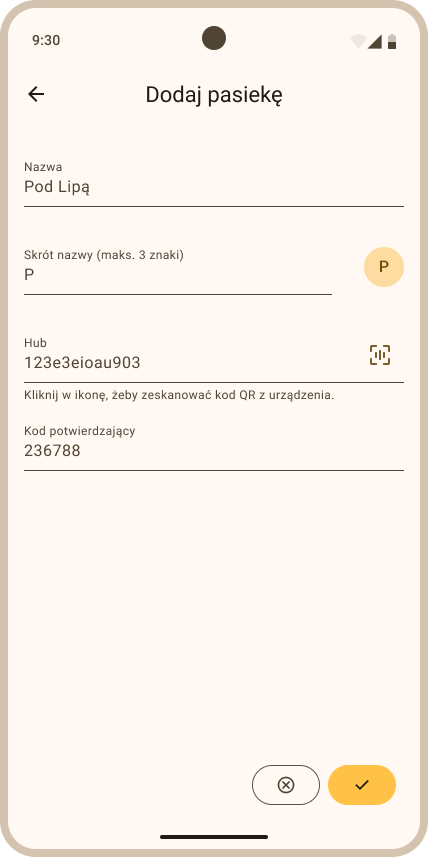
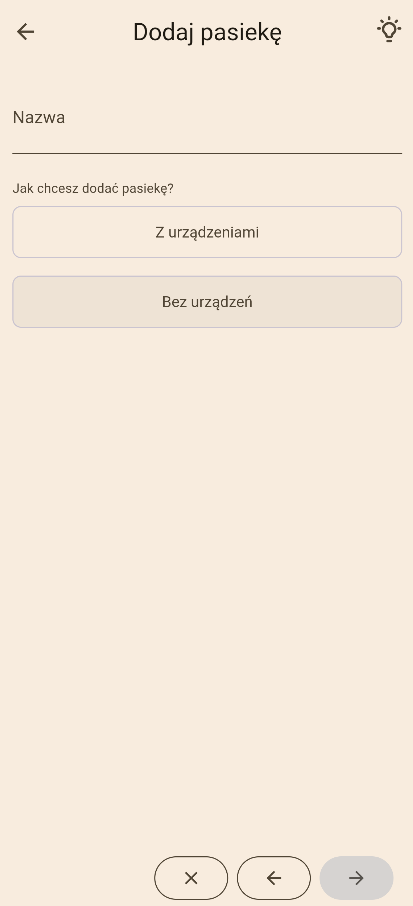
update pictures in pl version

diff --git a/docs/manual/app-manual.pl.md b/docs/manual/app-manual.pl.md
@@ -116,13 +116,13 @@ Figure: Dodawanie pasieki - widok startowy Pasieki {#fig-apiaries}
 
 - W rezultacie zostanie wyświetlony widok *Dodaj pasiekę* ([](#fig-add-apiary)). 
 
-Figure: Dodawanie pasieki z powiązanym Apisense Hub w systemie {#fig-add-apiary}
+Figure: Widok Dodaj pasiekę {#fig-add-apiary}
 
 ![figure](pictures/add_apiary.png){width=200}
 
 #### 1.1.1 Dodawanie pasieki z urządzeniami
 
-W widoku *Dodaj pasiekę* wypełnij następujące pola:
+W widoku *Dodaj pasiekę* ([](#fig-add-apiary)) wypełnij następujące pola:
 
 - **Nazwa** — nazwa pasieki, która będzie wyświetlana w panelu,
 - **Z urządzeniami** - zaznacz tę opcję, aby dodać pasiekę i powiązać z nią urządzenie Apisense Hub.
@@ -146,7 +146,7 @@ Figure: Pomyślnie dodana pasieka z powiązanym Apisense Hub w widoku pasiek w s
 
 #### 1.1.2 Dodawanie pasieki bez urządzeń
 
-Aby dodać pasiekę bez urządzeń, w widoku *Dodaj pasiekę*:
+Aby dodać pasiekę bez urządzeń, w widoku *Dodaj pasiekę* ([](#fig-add-apiary)):
 
 - w polu *Nazwa* wpisz nazwę pod jaką ma zostać wyświetlana pasieka w aplikacji,
 - zaznacz opcję *Bez urządzeń*.
@@ -284,23 +284,23 @@ Figure: Dodawanie ula w systemie - sekcja Informacje o matce pszczelej {#fig-add
     !!! Uwaga:
         **Wymóg Huba:** Aby powiązać Scale lub VitalSensor z ulem, do pasieki musi być przypisany **Apisense Hub**. W przeciwnym razie zarówno podczas dodawania jak i edycji ula, sekcja *Wyposażenie* nie będzie dostępna.
 
-    Aby powiązać urządzenie Apisense Scale z ulem wypełnij następujące pola:
+    Aby powiązać urządzenie Apisense Scale z ulem wypełnij następujące pola ([](#fig-add-beehive-devices-scale)):
 
     - **Scale** - kliknij w ikonę kodu QR znajdującą się w prawej części tego pola i zeskanuj kod QR z naklejki umieszczonej na Apisense Scale. Kolejne pole *Kod potwierdzający* zostanie wypełnione automatycznie.
     - **Kod potwierdzający** - zostanie wypełniony automatycznie, po poprawnym zeskanowaniu kodu QR.
 
     Figure: Dodawanie ula w systemie - sekcja Wyposażenie - przypisywanie urządzenia Scale {#fig-add-beehive-devices}
 
-    ![figure](pictures/add_beehive_devices.png){width=200}
+    ![figure](pictures/add_beehive_devices_scale.png){width=200}
 
-    Następnie kliknij żółty przycisk, widoczny w lewym dolnym rogu ekranu, aby przejść do etapu przypisywania urządzenia Apisense VitalSensor do ula:
+    Następnie kliknij żółty przycisk, widoczny w lewym dolnym rogu ekranu, aby przejść do etapu przypisywania urządzenia Apisense VitalSensor do ula ([](#fig-add-beehive-devices-sensor)):
 
     - **VitalSensor** - kliknij w ikonę kodu QR znajdującą się w prawej części tego pola i zeskanuj kod QR z naklejki umieszczonej na urządzeniu Apisense VitalSensor **lub** z Apisense Tag. Kolejne pole *Kod potwierdzający* zostanie wypełnione automatycznie.
     - **Kod potwierdzający** - zostanie wypełniony automatycznie, po poprawnym zeskanowaniu kodu QR.
 
     Figure: Dodawanie ula w systemie - sekcja Wyposażenie - przypisywanie urządzenia VitalSensor {#fig-add-beehive-devices}
 
-    ![figure](pictures/add_beehive_devices.png){width=200}
+    ![figure](pictures/add_beehive_devices_sensor.png){width=200}
 
 !!! Uwaga:
     Do ula możesz również przypisać tylko jedno urządzenie. Aby utworzyć ul tylko z VitalSensor pozostaw pole Scale i Kod potwierdzający puste, a następnie przejdź do etapu dodawania urządzenia VitalSensor i zeskanuj odpowiedni kod QR, po czym zapisz. Aby utworzyć ul tylko ze Scale pozostaw pole VitalSensor i Kod potwierdzający puste i kliknij żółty przycisk na dole ekranu w celu zapisania.
@@ -333,7 +333,7 @@ Jeśli chcesz utworzyć ul tylko do ewidencji (bez monitoringu):
 
 Figure: Pomyślnie dodany ul bez urządzeń w widoku Ule {#fig-beehives-beehive-without-devices}
 
-![figure](pictures/beehive_interior.png){width=200}
+![figure](pictures/beehives_beehive_without_devices.png){width=200}
 
 #### 2.2 Edycja ula
 
@@ -1305,7 +1305,7 @@ W niniejszym rozdziale przedstawiono znaczenie poszczególnych ikon, symboli ora
 
 Po utworzeniu pasieki z Hubem oraz przypisaniu Scale/VitalSensor do ula, zanim urządzenia nawiążą łączność z systemem na kafelkach będą prezentowane następujące informacje: 
 
-- **Hub — kafelek pasieki** - na kafelku pasieki zobaczysz komunikat z instrukcją uruchomienia urządzenia oraz trzeba przyciskami - wybierz tę, która odpowiada Twojej sytuacji:
+- **Hub — kafelek pasieki** - na kafelku pasieki zobaczysz komunikat z instrukcją uruchomienia urządzenia oraz trzeba przyciskami ([](#fig-apiary-instruction)) - wybierz tę, która odpowiada Twojej sytuacji:
 
 | Opcja | Maksymalny czas oczekiwania | Kiedy wybrać |
 | :---- | :---------------------- | :------------ |
@@ -1313,13 +1313,25 @@ Po utworzeniu pasieki z Hubem oraz przypisaniu Scale/VitalSensor do ula, zanim u
 | **Pełne słońce** | ok. 3 h | Hub wystawiony na słońce przy sprzyjającym nasłonecznieniu |
 | **Słabe słońce** | ok. 24 h | Rozładowany Hub przy słabym nasłonecznieniu |
 
-Po wybraniu opcji uruchamia się **odliczanie** (zegar) z szacowanym maksymalnym czasem, jaki należy odczekać do pierwszego połączenia. To **szacunek**, nie gwarancja - rozładowany Hub bez dostępu do światła może potrzebować więcej czasu. Jeśli po upływie czasu Hub nadal się nie zgłasza, aplikacja zaproponuje ponowienie próby. 
+Figure: Kafelek z pasieką - pierwsze uruchomienie urządzenia Apisense Hub - instrukcja uruchomienia {#fig-apiary-instruction}
 
-*(zrzut — `status_pierwsze_uruchomienie_hub.png`)*
+![figure](pictures/apiary_hub_first_contact.png){width=200}
 
-- **Scale i VitalSensor — kafelek ula** - na kafelku ula pojawia się pytanie czy urządzenie jest prawidłowo zamontowane oraz czy znajduje się w zasięgu Huba (do ok. 35 m). Po potwierdzeniu uruchamia się **zegar** z szacowanym maksymalnym czasem nawiązania komunikacji urządzenia pomiarowego z Hubem. 
+Po wybraniu opcji uruchamia się **odliczanie** (zegar) z szacowanym maksymalnym czasem, jaki należy odczekać do pierwszego połączenia ([](#fig-apiary-timer)). To **szacunek**, nie gwarancja - rozładowany Hub bez dostępu do światła może potrzebować więcej czasu. Jeśli po upływie czasu Hub nadal się nie zgłasza, aplikacja zaproponuje ponowienie próby. 
 
-*(zrzut — `status_pierwsze_uruchomienie_ul.png`)*
+Figure: Kafelek z pasieką - pierwsze uruchomienie urządzenia Apisense Hub - zegar {#fig-apiary-timer}
+
+![figure](pictures/apiary_timer.png){width=200}
+
+- **Scale i VitalSensor — kafelek ula** - na kafelku ula pojawia się pytanie ([](#fig-beehive-device-first-contact)) czy urządzenie jest prawidłowo zamontowane oraz czy znajduje się w zasięgu Huba (do ok. 35 m). Po potwierdzeniu uruchamia się **zegar** z szacowanym maksymalnym czasem nawiązania komunikacji urządzenia pomiarowego z Hubem ([](#fig-beehive-timer)). 
+
+Figure: Kafelek z ulem - pierwsze uruchomienie urządzenia Apisense Scale/VitalSensor - pytanie {#fig-beehive-device-first-contact}
+
+![figure](pictures/beehive_device_first_contact.png){width=200}
+
+Figure: Kafelek z ulem - pierwsze uruchomienie urządzenia Apisense Scale/VitalSensor - zegar {#fig-beehive-timer}
+
+![figure](pictures/beehive_timer.png){width=200}
 
 **Dodatkowe komunikaty na kafelku pasieki**
 
@@ -1341,11 +1353,11 @@ Ikony stanu zdrowia informują o kondycji rodziny pszczelej w poszczególnych ul
 | :----------- | :---------------- | :--------- |
 | ![](pictures/state_healthy_family.png) | kafelek z pasieką (zakładka Pasieki) | **Rodzina zdrowa** | Co najmniej jeden ul ma wiarygodne dane z urządzenia VitalSensor (poza okresem *Zbieramy dane*). Rodzina pszczela w tej pasiece jest zdrowa. W żadnym ulu w tej pasiece nie wykryto zagrożenia.| 
 | ![](pictures/state_danger.png) | kafelek z pasieką (zakładka Pasieki) | **Zagrożenie** - rodzina pszczela w tej pasiece jest zagrożona. W co najmniej jednym ulu w tej pasiece będącym poza okresem *Zbieramy dane* wykryto zagrożenie w postaci choroby. |
-| *(zrzut — `status_zbieramy_dane_pasieka.png`)* | kafelek z pasieką (zakładka Pasieki), kafelek z ulem (zakładka Ule) | **Zbieramy dane na kafelku z pasieką** -  oznacza, że wszystkie urządzenia typu VitalSensor w pasiece są w okresie zbierania  danych o zdrowiu rodziny (pierwsze ok. 3 dni od przypisania), trwa pierwsza analiza AI - system zbiera dane, ale model nie ma jeszcze wystarczającej historii, aby wiarygodnie ocenić stan zdrowia rodziny. **Zbieramy dane na kafelku z ulem** - występuje na ulu, do którego przypisany jest VitalSensor znajdujący się w okresie zbierania danych o zdrowiu rodziny (analogicznie jak w przypadku pasieki)|
-| *(zrzut — `status_baner_zbieramy_dane.png`)* | kafelek pasieki (zakładka Pasieki) | *Zbieramy dane o zdrowiu X z Y uli…* - oznacza, że w co najmniej jednym ulu w pasiece istnieje VitalSensor, który wciąż jest w okresie zbierania danych o zdrowiu rodziny. Przykład: w pasiece jest 5 uli, w 4 z nich od dłuższego czasu jest VitalSensor i każdy z nich wskazuje, że rodzina jest zdrowa. Do 1 ula VitalSensor został przypisany dzisiaj. Na kafelku z pasieką zobaczysz mniejszy kafelek *Rodzina zdrowa* i informację *Zbieramy dane o zdrowiu 1 z 5 uli.* |
+| ![](pictures/apiary_statuses_collect_data_chip.png)  | kafelek z pasieką (zakładka Pasieki), kafelek z ulem (zakładka Ule) | **Zbieramy dane na kafelku z pasieką** -  oznacza, że wszystkie urządzenia typu VitalSensor w pasiece są w okresie zbierania  danych o zdrowiu rodziny (pierwsze ok. 3 dni od przypisania), trwa pierwsza analiza AI - system zbiera dane, ale model nie ma jeszcze wystarczającej historii, aby wiarygodnie ocenić stan zdrowia rodziny. **Zbieramy dane na kafelku z ulem** - występuje na ulu, do którego przypisany jest VitalSensor znajdujący się w okresie zbierania danych o zdrowiu rodziny (analogicznie jak w przypadku pasieki)|
+| ![](pictures/apiary_statuses_collect_data.png) | kafelek pasieki (zakładka Pasieki) | *Zbieramy dane o zdrowiu X z Y uli…* - oznacza, że w co najmniej jednym ulu w pasiece istnieje VitalSensor, który wciąż jest w okresie zbierania danych o zdrowiu rodziny. Przykład: w pasiece jest 5 uli, w 4 z nich od dłuższego czasu jest VitalSensor i każdy z nich wskazuje, że rodzina jest zdrowa. Do 1 ula VitalSensor został przypisany dzisiaj. Na kafelku z pasieką zobaczysz mniejszy kafelek *Rodzina zdrowa* i informację *Zbieramy dane o zdrowiu 1 z 5 uli.* |
 | Brak kafelka o stanie zdrowia | kafelek pasieki (zakładka Pasieki), kafelek ula (zakładka Ule) | *(brak statusu zdrowia)* | Pasieka bez Huba lub pasieka z Hubem, ale w żadnym ulu w tej pasiece nie ma urządzeń typu VitalSensor. System nie ma podstaw do oceny zdrowia rodziny. |
-| *(zrzut — `status_baner_zbieramy_dane.png`)* | kafelek ula - wiersz *Stan rodziny*, zakładka *Stan ula* w *Szczegóły* | **Zdrowa** - VitalSensor poza okresem zbierania danych; model nie wykrył choroby. Rodzina w tym ulu uznana za zdrową. |
-| *(zrzut — `status_choroba_wysoka.png`)* | kafelek ula (zakładka Ule)| Nazwa choroby na żółtym tle - wykryto chorobę w ulu o niskim/umiarkowanym poziomie porażenia. Nazwa choroby na czerwonym tle - wykryto chorobę w ulu o wysokim poziomie porażenia. *+N obok nazwy choroby* - oznacza, że w ulu wykryto więcej niż jedną chorobę. |
+| ![](pictures/beehive_statuses_health_family.png) | kafelek ula - wiersz *Stan rodziny*, zakładka *Stan ula* w *Szczegóły* | **Zdrowa** - VitalSensor poza okresem zbierania danych; model nie wykrył choroby. Rodzina w tym ulu uznana za zdrową. |
+| ![](pictures/statuses_disease_low.png) | kafelek ula (zakładka Ule)| Nazwa choroby na żółtym tle - wykryto chorobę w ulu o niskim/umiarkowanym poziomie porażenia. Nazwa choroby na czerwonym tle - wykryto chorobę w ulu o wysokim poziomie porażenia. *+N obok nazwy choroby* - oznacza, że w ulu wykryto więcej niż jedną chorobę. |
 | ![](pictures/state_no_data.png) | kafelek pasieki (zakładka Pasieki), kafelek ula (zakładka Ule) | **Brak danych** - oznacza, że system nie może ocenić stanu zdrowia rodziny pszczelej (na kafelku z ulem dotyczy danych z konkretnego VitalSensor, na kafelku z pasieką odnosi się do wszystkich urządzeń typu VitalSensor w tej pasiece). Przykładowo może wystąpić gdy VitalSensor był w okresie zbierania danych, ale nagle przestał komunikować się z Hub i dane nie zdążyły zostać zebrane oraz przeanalizowane przez model AI. |
 | ![](pictures/varroa_low.png) | m.in. *Szczegóły*, *Mapa* | Ikona choroby — Warroza.  Wykryto chorobę (Warroza) o niskim poziomie porażenia. |
 | ![](pictures/nosema_high.png) | m.in. *Szczegóły*, *Mapa* | Ikona choroby — Nosemoza. Wykryto chorobę (Nosemoza) o wysokim poziomie porażenia. Sprawdź zalecenia w zakładce *Problemy*. |
@@ -1384,12 +1396,12 @@ Ikony stanu urządzeń Apisense wskazują aktualny status pracy: jakość połą
 | ![](pictures/battery_medium.png)    | kafelek z pasieką (zakładka Pasieki)             | Średni poziom baterii urządzenia Apisense Hub.                                                                                                                                          |
 | ![](pictures/battery_low.png)     | kafelek z pasieką i ulem (zakładka Pasieki, Ule) | Bardzo słaby poziom baterii urządzenia (na kafelku z pasieką dotyczy Hub, na kafelku z ulem - Scale lub VitalSensor). Należy naładować (Hub) lub wymienić baterie (Scale, VitalSensor). |
 | ![](pictures/battery_offline.png) | kafelek z pasieką (zakładka Pasieki), kafelek z ulem (zakładka Ule)             | Poziom baterii urządzenia nieznany. Należy poczekać na kolejne zgłoszenie się urządzenia. Jeżeli stan długo się utrzymuje np. kilka godzin (ikona baterii szara i przekreślona, ale aktualne dane są wyświetlane np. temperatura) należy zgłosić problem w aplikacji.                                                                                              |
-| *(zrzut — `battery_grey_high.png`)* | kafelek z pasieką (zakładka Pasieki), kafelek z ulem (zakładka Ule) | Pełna/wysoka, wyszarzona ikona baterii oznacza, że Hub lub Scale/VitalSensor **nie zgłasza się**, ale ostatni znany poziom baterii był **wysoki**. Sprawdź zasilanie i zasięg; urządzenie mogło stracić łączność z innych powodów niż rozładowanie baterii. |
-| *(zrzut — `battery_grey_medium.png`)* | kafelek z pasieką (zakładka Pasieki), kafelek z ulem (zakładka Ule) | Wyszarzona ikona baterii z dwiema kreskami - ostatni znany poziom baterii był na poziomie **średnim**. Brak komunikacji wynika najprawdopodobniej z problemów z zasięgiem BLE (ule) lub LTE (Hub). |
-| *(zrzut — `battery_grey_low.png`)* | kafelek z pasieką (zakładka Pasieki), kafelek z ulem (zakładka Ule) | Wyszarzona ikona baterii z jedną kreską - ostatni znany poziom baterii był **niski**. Problemy z komunikacją urządzenia wynikają najprawdopodobnie z krytycznie niskiego stanu baterii. Wymień baterie (Scale, VitalSensor) lub naładuj Hub. |
-| *(zrzut — `status_czekamy_polaczenie.png`)* | kafelek ula (zakładka Ule) | **Czekamy na połączenie** - oznacza, że czekamy na kontakt urządzenia z Hubem. |
-| *(zrzut — `status_brak_polaczenia.png`)* | kafelek ula (zakładka Ule) | **Brak połączenia** - urządzenie przestało komunikować się z Hub. |
-| *(zrzut — `status_bateria_wyczerpana.png`)* | kafelek ula (zakładka Ule) | **Bateria wyczerpana** - Ostatni znany stan baterii: rozładowana. Należy wymienić baterię urządzenia. |
+| ![](pictures/battery_grey_high.png) | kafelek z pasieką (zakładka Pasieki), kafelek z ulem (zakładka Ule) | Pełna/wysoka, wyszarzona ikona baterii oznacza, że Hub lub Scale/VitalSensor **nie zgłasza się**, ale ostatni znany poziom baterii był **wysoki**. Sprawdź zasilanie i zasięg; urządzenie mogło stracić łączność z innych powodów niż rozładowanie baterii. |
+| ![](pictures/battery_grey_medium.png) | kafelek z pasieką (zakładka Pasieki), kafelek z ulem (zakładka Ule) | Wyszarzona ikona baterii z dwiema kreskami - ostatni znany poziom baterii był na poziomie **średnim**. Brak komunikacji wynika najprawdopodobniej z problemów z zasięgiem BLE (ule) lub LTE (Hub). |
+| ![](pictures/battery_grey_low.png) | kafelek z pasieką (zakładka Pasieki), kafelek z ulem (zakładka Ule) | Wyszarzona ikona baterii z jedną kreską - ostatni znany poziom baterii był **niski**. Problemy z komunikacją urządzenia wynikają najprawdopodobnie z krytycznie niskiego stanu baterii. Wymień baterie (Scale, VitalSensor) lub naładuj Hub. |
+| ![](pictures/statuses_waiting_for_connection.png) | kafelek ula (zakładka Ule) | **Czekamy na połączenie** - oznacza, że czekamy na kontakt urządzenia z Hubem. |
+| ![](pictures/statuses_connection_lost_ble.png)| kafelek ula (zakładka Ule) | **Brak połączenia** - urządzenie przestało komunikować się z Hub. |
+| ![](pictures/statuses_connection_lost_battery.png) | kafelek ula (zakładka Ule) | **Bateria wyczerpana** - Ostatni znany stan baterii: rozładowana. Należy wymienić baterię urządzenia. |
 
 #### Oznaczenia kolorystyczne
 
@@ -1678,7 +1690,7 @@ Aby zgłosić problem lub sugestię w aplikacji, należy wykonać poniższe krok
 
 Figure: Widok Dodaj sugestię - przykładowy problem zgłoszony poprzez aplikację {#fig-add-suggestion}
 
-![figure](pictures/add_suggestion.png){width=200}
+![figure](pictures/report_suggestion.png){width=200}
 ______________________________________________________________________
 
 ## Zarządzanie kontem
